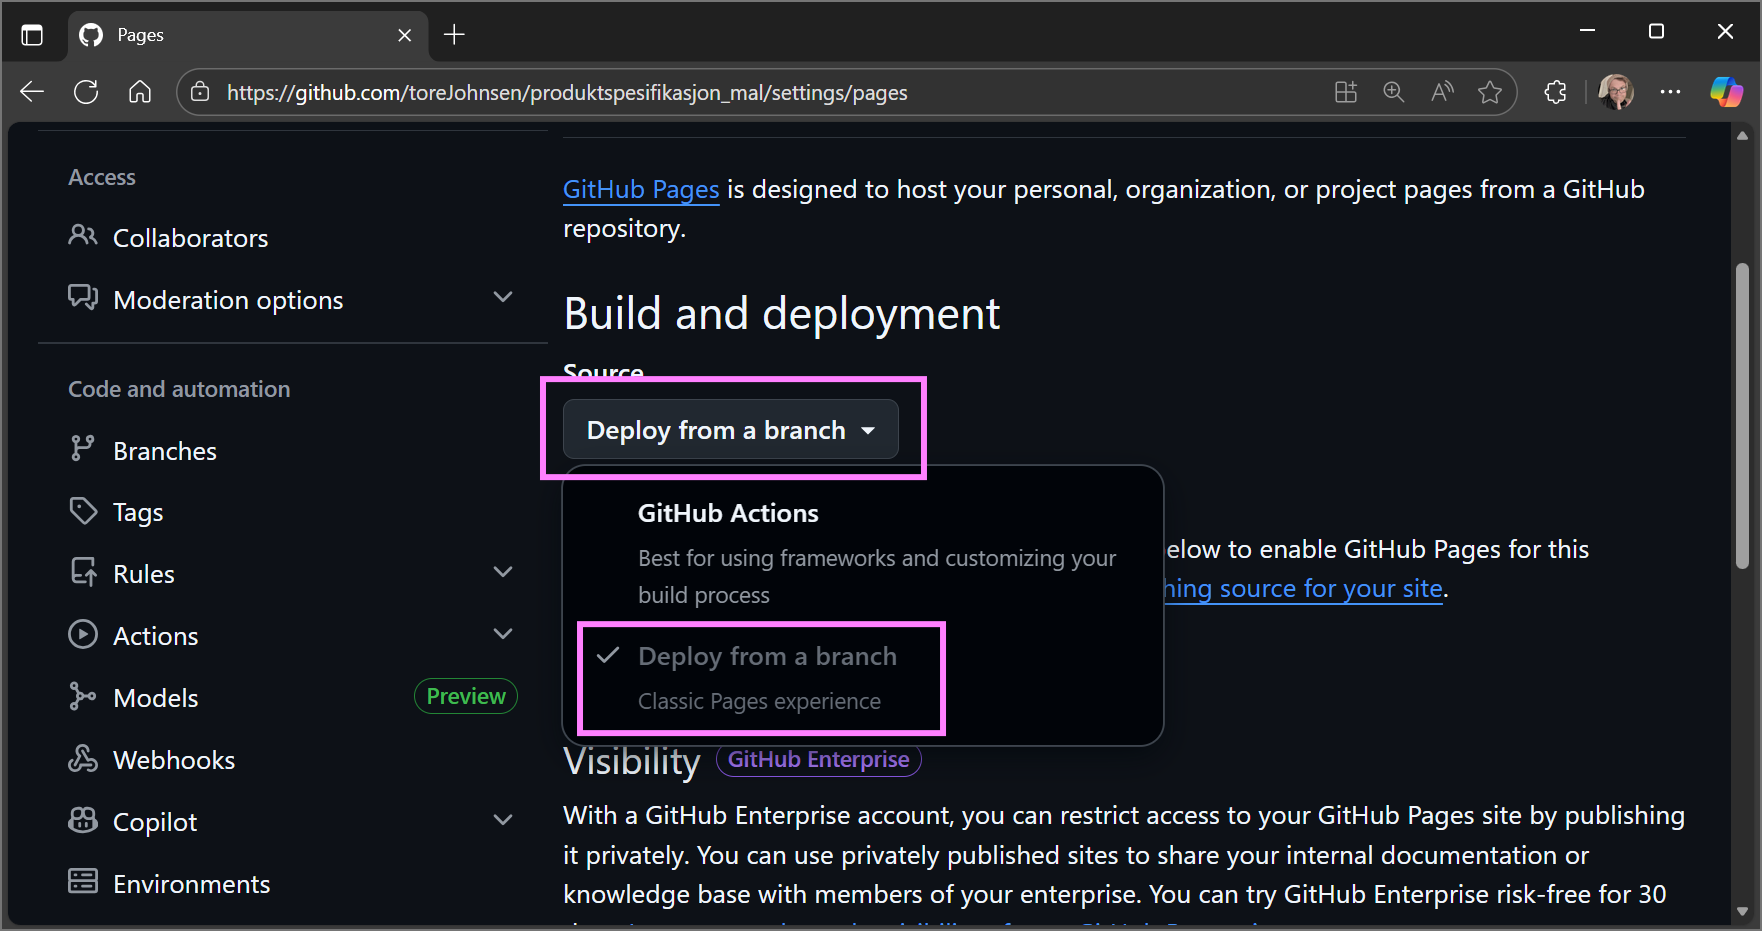
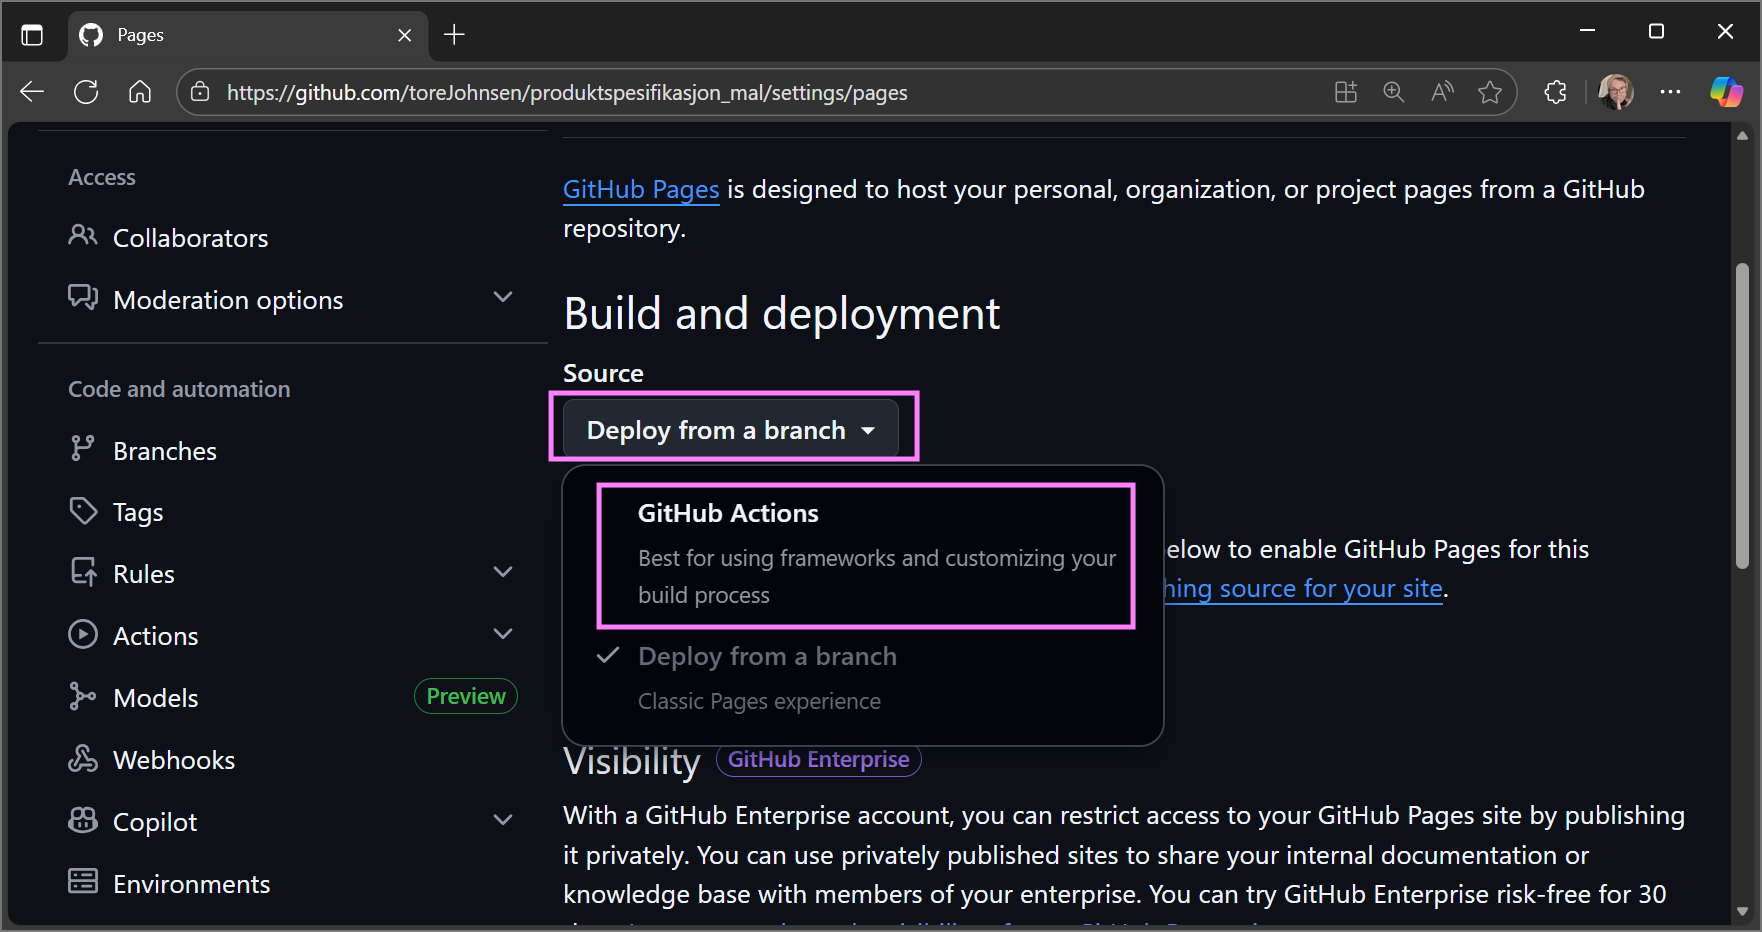
updated pages2.png

diff --git a/readme.md b/readme.md
@@ -1,4 +1,4 @@
-# 🧭 Guide: Fork, GitHub Pages og GitHub Actions
+# Guide: Fork, GitHub Pages og GitHub Actions
 
 Denne veiledningen viser hvordan du:
 1. Lager en fork av repoet  
@@ -27,13 +27,13 @@ Denne veiledningen viser hvordan du:
 
 ---
 
-## 2️⃣ Sette GitHub Pages til "Deploy from branch"
+## 2️⃣ Sette GitHub Pages til "GitHub Actions"
 
 1. Gå til din fork
 2. Klikk **Settings**
 3. Velg **Pages** i menyen til venstre
 4. Under **Build and deployment**:
-   - Source: **GitHub**
+   - Source: **GitHub Actions**
 5. Klikk **Save**
 
 ✅ GitHub Pages er nå konfigurert
@@ -95,5 +95,3 @@ Du har nå:
 - Workflows aktivert  
 
 ---
-
-🚀 Tips: Når du gjør endringer i repoet, kan de automatisk deployes via GitHub Actions og bli synlige på GitHub Pages.